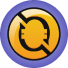
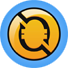
Update Telegram Groups

diff --git a/index.html b/index.html
@@ -1417,7 +1417,7 @@
                                         </div>
                                         <div class="item-telegram-com">
                                         <div class="item-telegram-com__header">
-                                            <img src="./img/telegram_01.png" alt="" class="item-telegram-com__img">
+                                            <img src="./img/telegram_02.png" alt="" class="item-telegram-com__img">
                                             <div class="item-telegram-com__title-block">
                                                 <h6 class="item-telegram-com__title">Support</h6>
                                                 <div class="item-telegram-com__follow">250 following </div>
@@ -1430,7 +1430,7 @@
                                         </div>
                                     <div class="item-telegram-com">
                                             <div class="item-telegram-com__header">
-                                                <img src="./img/telegram_01.png" alt="" class="item-telegram-com__img">
+                                                <img src="./img/telegram_03.png" alt="" class="item-telegram-com__img">
                                                 <div class="item-telegram-com__title-block">
                                                     <h6 class="item-telegram-com__title">Guide</h6>
                                                     <div class="item-telegram-com__follow">10 following </div>
